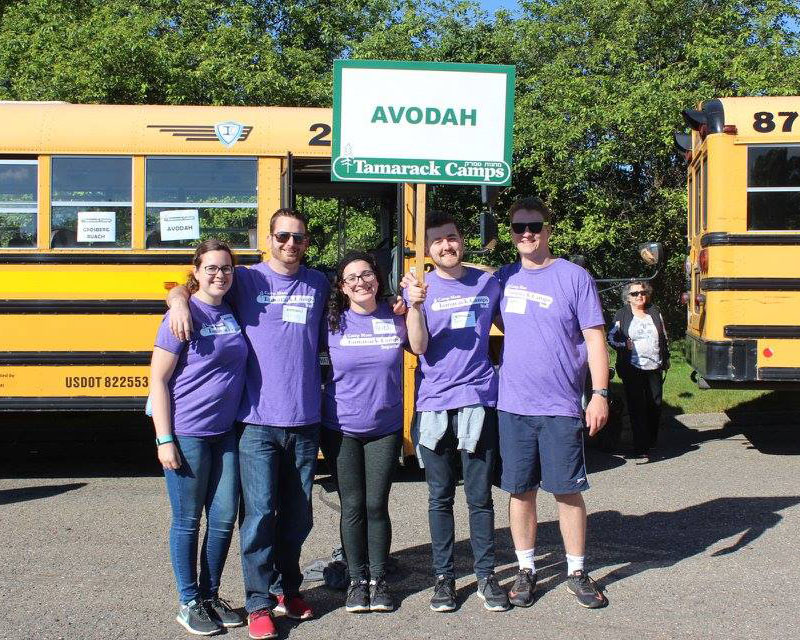
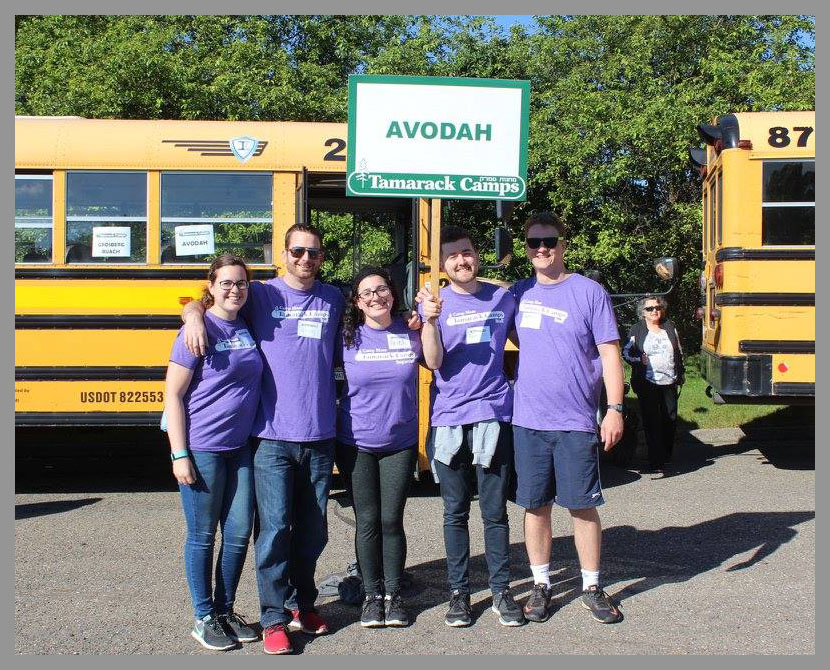
removed 2nd avodah pic

diff --git a/index.html b/index.html
@@ -77,7 +77,7 @@
           <div class="col-lg-8 mx-auto text-center">
 
 
-            <img class="img-fluid" src="img/portfolio/thumbnails/8.jpg" alt="" width="600" height="450"> <img class="img-fluid" src="img/portfolio/thumbnails/9.jpg" alt="" width="200" height="450">
+            <img class="img-fluid" src="img/portfolio/thumbnails/8.jpg" alt="" width="600" height="450">
 
 
             <h2 class="section-heading text-white">A Passion for Advocacy.</h2>
